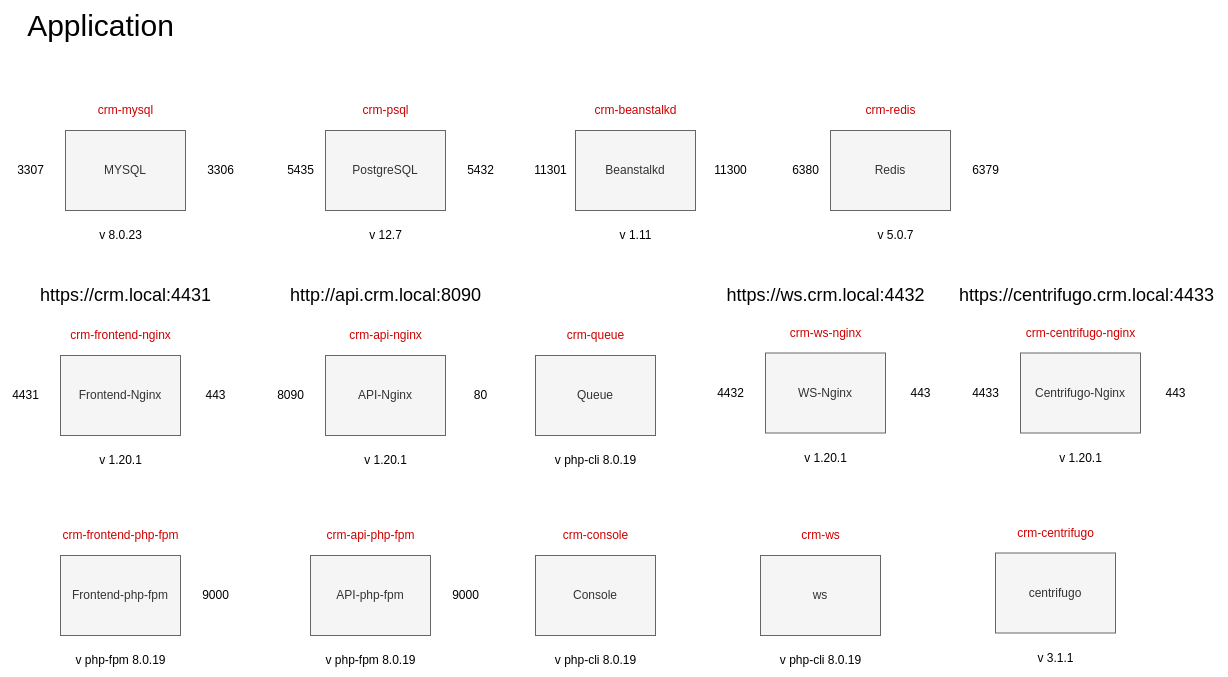
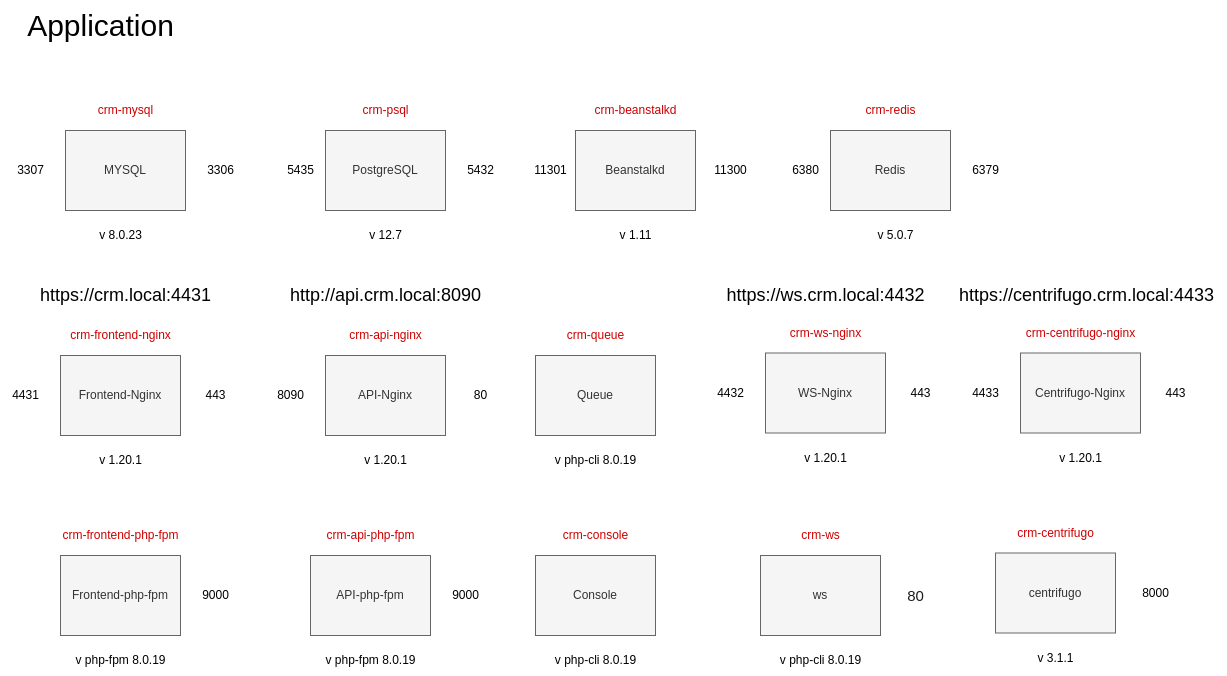
feature/TMS-741 update port for ws and centrifugo

diff --git a/devops/README.md b/devops/README.md
@@ -79,13 +79,13 @@ Logically you can split CRM architecture into the following layers
 
 `crm-api-php-fpm`: 9000
 
-`crm-ws`: 
+`crm-ws`: 80
 
 `crm-queue`:
 
 `crm-centrifugo-nginx`: 4433->443
 
-`crm-centrifugo`: 
+`crm-centrifugo`: 8000
 
 `crm-psql`: 5435->5432
 
